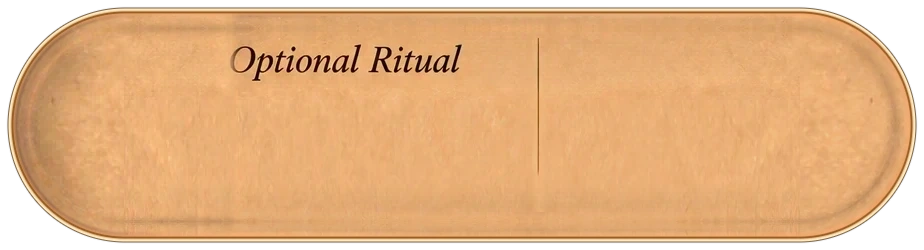
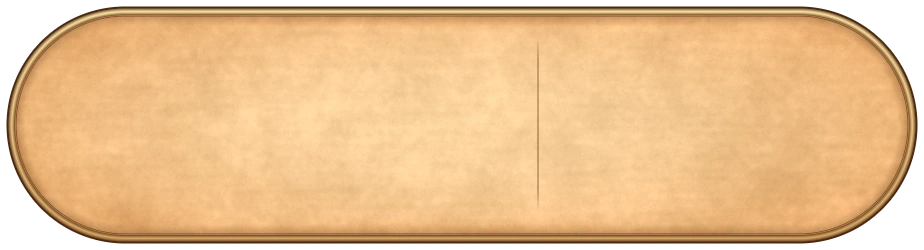
Sky pages: the Optional Ritual card drawn whole (even parchment, crisp gold rim, no inner band or stains), its title set as sharp text above the ritual's name

diff --git a/public/app.js b/public/app.js
@@ -3572,7 +3572,7 @@ function spCards(n,bodies,rit){
   <div class="spc spr" data-k="3" style="left:49px;top:0;width:924px;height:${SKC}px;background-image:url(${SKY}sp-c3.webp)">
    <img class="spi" src="${SKY}sp-rit-bowl.webp" alt="" style="left:60px;top:10px;width:130px;height:156px">${rit}</div>`;
 }
-const skRit=(name,desc)=>`${tx('sp-rn',198,96,318,60,name,33)}${tx('sp-rd',566,26,300,SKC-52,desc,32)}`;
+const skRit=(name,desc)=>`${tx('sp-rt',198,52,318,62,'Optional Ritual',44)}${tx('sp-rn',198,118,318,60,name,33)}${tx('sp-rd',566,26,300,SKC-52,desc,32)}`;
 function skLay(t,n,sc,hr,H){
  const ch=SPH.reduce((a,b)=>Math.abs(Math.log(b/hr))<Math.abs(Math.log(a/hr))?b:a),sy=H/ch,k=sy/sc;
  t.style.setProperty('--img',`url(${SKY}${n==='pl'?'pl-bg':'sp-'+n}-${ch}.webp)`);

diff --git a/public/ritual.css b/public/ritual.css
@@ -226,3 +226,4 @@ body:has(.sky0) .toast{bottom:calc(var(--rnh,80px) + env(safe-area-inset-bottom,
 #app .spc .sp-rn{color:#1c1108;font-weight:500;display:flex;align-items:center;justify-content:center;text-align:center;text-shadow:none;line-height:1.1}
 #app .rupill{white-space:nowrap}
 #app .ruq{line-height:1.15}
+#app .spc .sp-rt{color:#2a1508;font-style:italic;font-weight:600;display:flex;align-items:center;justify-content:center;text-align:center;white-space:nowrap;text-shadow:0 1px 0 rgba(255,236,200,.5);line-height:1}
